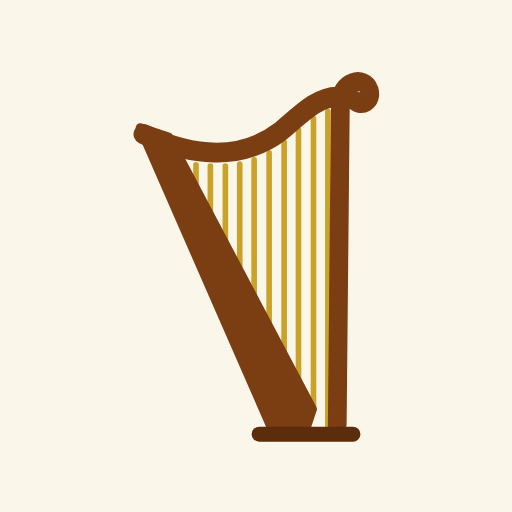
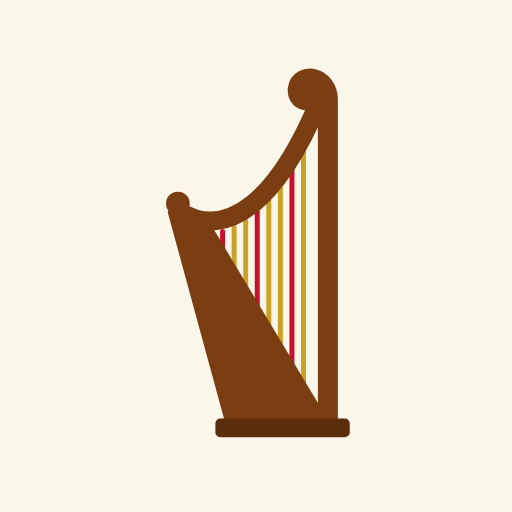
make harp even welsher

Changed region(s): [[0.25, 0.125, 0.75, 0.875]]

diff --git a/design/triple-harp.py b/design/triple-harp.py
@@ -1,49 +1,52 @@
 # Draws static/harp.svg, the site's icon: python3 design/triple-harp.py static/harp.svg
 # (then regenerate the PNG icons from the other design/ pages; see the README).
-# Welsh triple harp, side view: soundbox on the left leaning back, straight fore-pillar
-# on the right rising to a scrolled head, neck sweeping up from the soundbox to the head.
+#
+# A Welsh triple harp (telyn deires), after the photo on Wikipedia's "Triple harp" page:
+# a tall straight pillar with a scroll on top, a "high head" (the neck climbs in a long
+# curve from the short soundbox to the top of the pillar), a soundbox that widens down
+# to the foot of the pillar, a plinth, and red strings among the plain ones.
 import sys
 
 def bez(p0, p1, p2, p3, t):
     return tuple((1-t)**3*a + 3*(1-t)**2*t*b + 3*(1-t)*t**2*c + t**3*d for a, b, c, d in zip(p0, p1, p2, p3))
 
-# neck: two cubic segments
-N1 = [(16.5, 12.5), (24, 16), (32, 17), (38.5, 12)]
-N2 = [(38.5, 12), (42, 9), (44.5, 6.5), (47.5, 6.5)]
-neck_pts = [bez(*N1, t/200) for t in range(201)] + [bez(*N2, t/200) for t in range(201)]
-def neck_y(x):  # underside is ~ the centre line; strings start a bit below
-    return min(neck_pts, key=lambda p: abs(p[0]-x))[1]
+# The neck's centre line, from the top of the soundbox (left) to the pillar (right).
+NECK = [(21.5, 25), (29, 29.5), (37, 23), (43.5, 7.5)]
+neck = [bez(*NECK, t / 400) for t in range(401)]
+def neck_y(x):
+    return min(neck, key=lambda p: abs(p[0] - x))[1]
 
-# soundboard (string side of the soundbox): straight line
-SB = ((19.5, 14), (43, 56.5))
+# The soundboard: the front of the soundbox, where the strings end.
+BOARD = ((24.5, 26.5), (42.5, 56.5))
 def board_y(x):
-    (x0, y0), (x1, y1) = SB
+    (x0, y0), (x1, y1) = BOARD
     return y0 + (x - x0) * (y1 - y0) / (x1 - x0)
 
+wood, dark, gold, red = "#7a3e12", "#5c2d0c", "#c9a227", "#c8102e"
 strings = []
-xs = [22.5 + i * 2.35 for i in range(11)]
-for i, x in enumerate(xs):
-    top, bottom = neck_y(x) + 2.2, board_y(x) - 1.2
-    if bottom - top > 2:
-        strings.append(f'<line x1="{x:.1f}" y1="{top:.1f}" x2="{x:.1f}" y2="{bottom:.1f}"/>')
+for i in range(9):
+    x = 26.3 + i * 1.85
+    top, bottom = neck_y(x) + 1.9, board_y(x) - 0.8
+    colour = red if i % 3 == 1 else gold
+    strings.append(f'<line x1="{x:.2f}" y1="{top:.2f}" x2="{x:.2f}" y2="{bottom:.2f}" stroke="{colour}"/>')
 
-wood, dark, gold = "#7a3e12", "#5c2d0c", "#c9a227"
-svg = f'''<svg xmlns="http://www.w3.org/2000/svg" viewBox="2.5 0 64 64">
-  <!-- A Welsh triple harp (telyn deires): tall soundbox, straight fore-pillar with a
-       scrolled head, and a neck that sweeps up to it. Made by design/triple-harp.py. -->
-  <g stroke="{gold}" stroke-width="0.9" stroke-linecap="round">
-    {chr(10).join("    " + s for s in strings).strip()}
+svg = f'''<svg xmlns="http://www.w3.org/2000/svg" viewBox="1.5 0 64 64">
+  <!-- A Welsh triple harp (telyn deires). Made by design/triple-harp.py. -->
+  <g stroke-width="0.8" stroke-linecap="round">
+    {(chr(10) + "    ").join(strings)}
   </g>
   <g fill="none" stroke="{wood}" stroke-linecap="round" stroke-linejoin="round">
-    <!-- fore-pillar, with the head's scroll curling forward at the top -->
-    <path d="M47.5 59 L48 7.5 C 48 4, 51.8 3, 52.6 5.4 C 53.2 7.3, 51.2 8.4, 50.2 7" stroke-width="3"/>
-    <!-- neck -->
-    <path d="M{N1[0][0]} {N1[0][1]} C {N1[1][0]} {N1[1][1]}, {N1[2][0]} {N1[2][1]}, {N1[3][0]} {N1[3][1]} C {N2[1][0]} {N2[1][1]}, {N2[2][0]} {N2[2][1]}, {N2[3][0]} {N2[3][1]}" stroke-width="3.2"/>
+    <!-- neck, climbing to the top of the pillar -->
+    <path d="M{NECK[0][0]} {NECK[0][1]} C {NECK[1][0]} {NECK[1][1]}, {NECK[2][0]} {NECK[2][1]}, {NECK[3][0]} {NECK[3][1]}" stroke-width="3"/>
+    <!-- pillar, with a scroll on top curling back over the strings -->
+    <path d="M45 58 V7 C 45 3.2, 40.6 2.6, 40.2 5.2 C 39.9 7, 42 7.8, 42.8 6.3" stroke-width="3.2"/>
   </g>
-  <!-- soundbox: narrow at the top, wide at the foot -->
-  <path d="M16 11.5 L20.5 13 L43.5 56.5 L42.5 59.5 L37 59.5 Z" fill="{wood}" stroke="{wood}" stroke-width="1.5" stroke-linejoin="round"/>
-  <!-- feet -->
-  <path d="M35 60.5 H50" stroke="{dark}" stroke-width="2.4" stroke-linecap="round"/>
+  <!-- finial where the neck meets the soundbox -->
+  <circle cx="21" cy="23.6" r="1.9" fill="{wood}"/>
+  <!-- soundbox: short, widening to the foot -->
+  <path d="M20 25 L25 26 L43 56 L43 58 L29 58 Z" fill="{wood}" stroke="{wood}" stroke-width="1.2" stroke-linejoin="round"/>
+  <!-- plinth -->
+  <rect x="27" y="58" width="21.5" height="3" rx="0.8" fill="{dark}"/>
 </svg>
 '''
 open(sys.argv[1], "w").write(svg)
